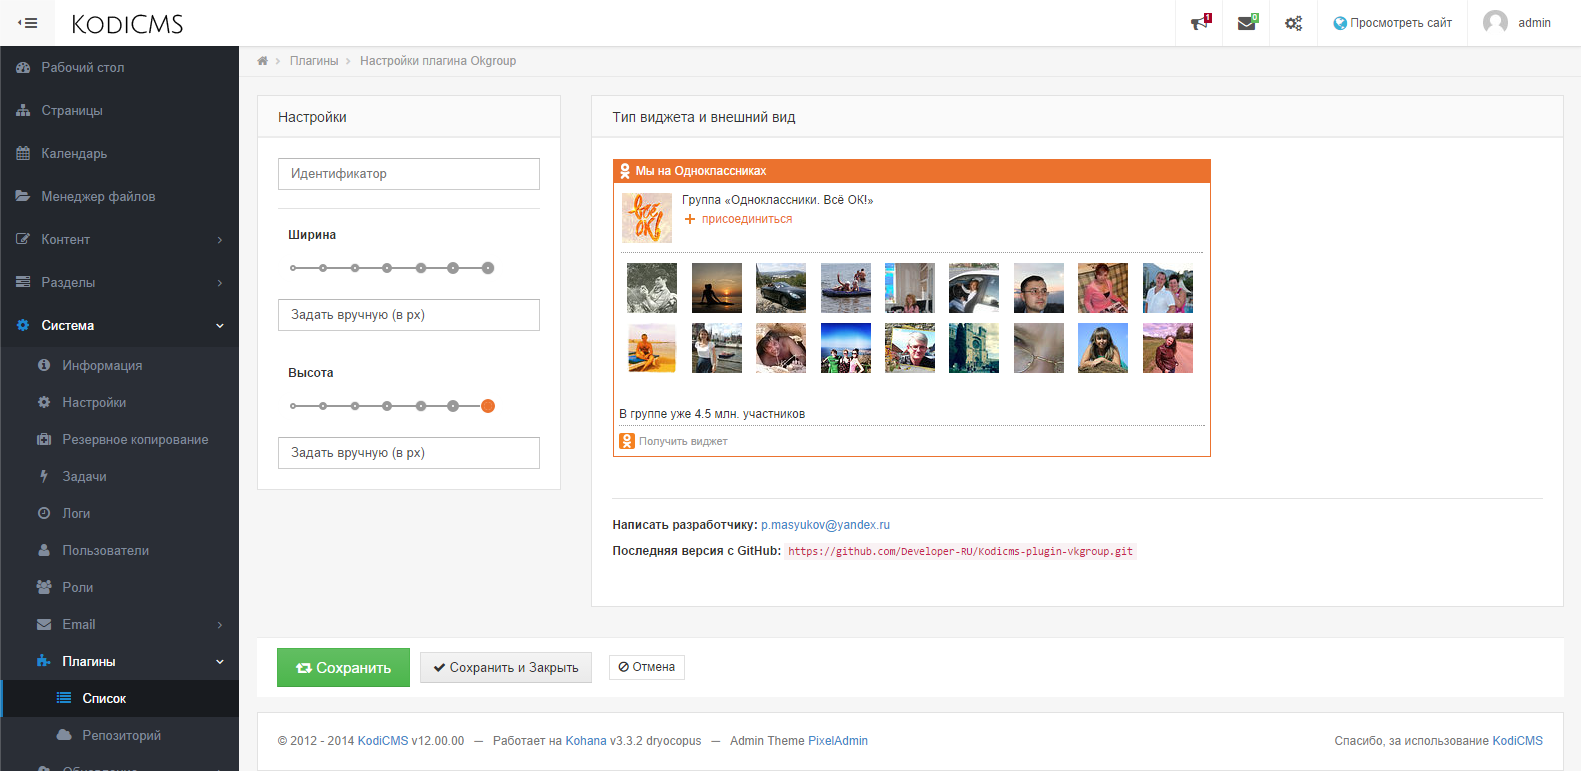
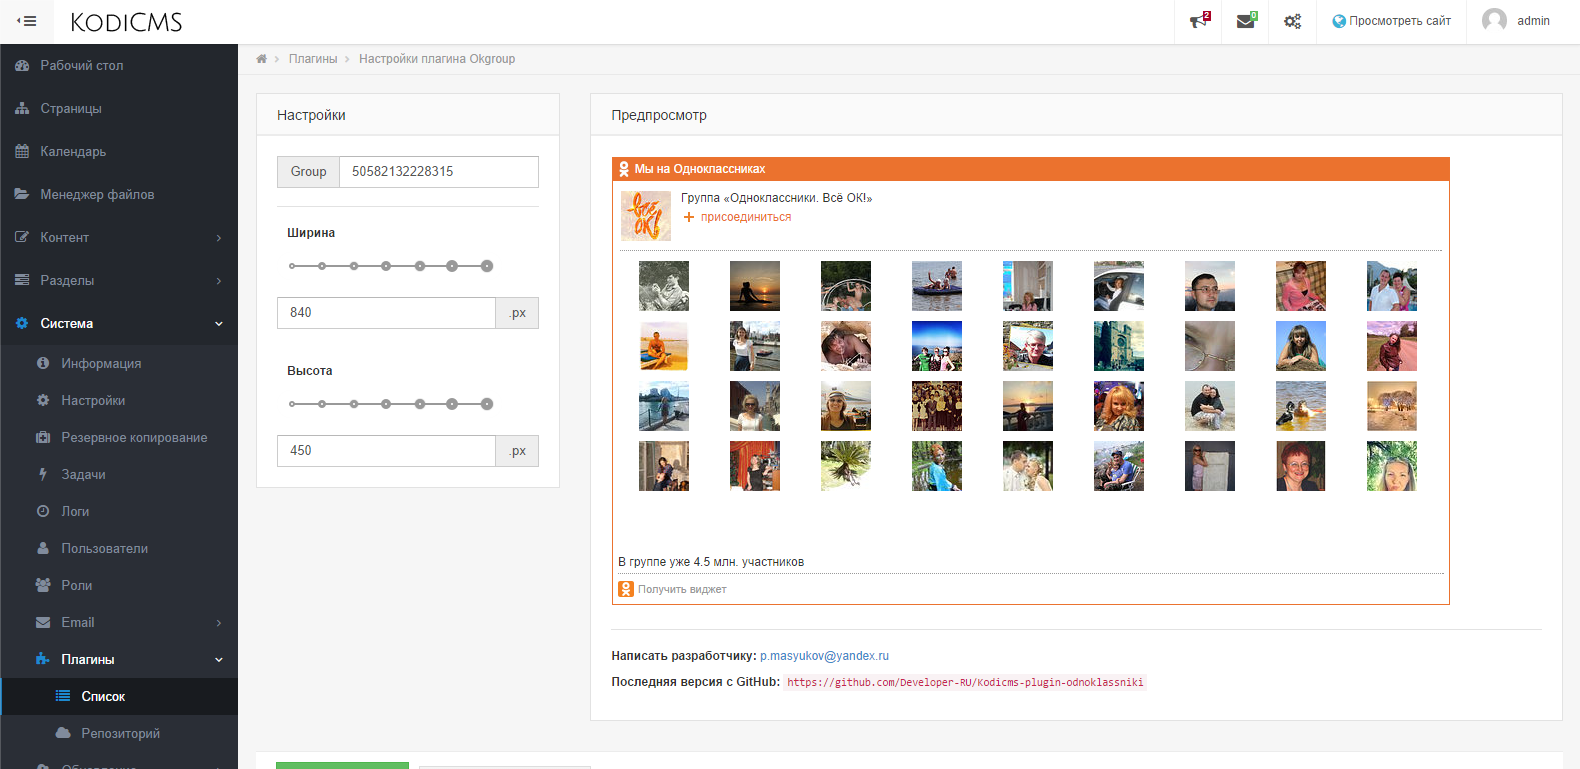
Update 31.08.2014

diff --git a/views/okgroup/settings.php b/views/okgroup/settings.php
@@ -1,6 +1,7 @@
 <?php
+
 /**
- * @Описание файла: "okgroup"
+ * @Описание файла: "okgroup 2.0"
  * 
  * -------
  * 
@@ -13,6 +14,7 @@
  * @URL https://github.com/Developer-RU
  * 
  */
+
 ?>
 <div class="row">
     <div class="col-sm-3">
@@ -24,10 +26,10 @@
                 <?php echo $form; ?>
                 <div class="control-group">
 
-                    <div class="controls">
-                        <input class = 'form-control' id="setting_group" type="text" size="14" placeholder="Идентификатор">
+                    <div class="input-group">
+                        <div class="input-group-addon">Group</div>
+                        <?php echo Form::input('setting[group]', $plugin->get('group'), array('id' => 'setting_group', 'class' => 'form-control', 'placeholder' => Arr::get($plugin->labels(), 'group'))); ?>
                     </div>
-
 
                     <hr class="divider">
 
@@ -63,9 +65,10 @@
                     </div>
 
                     <br><br>
-                    
-                    <div class="controls">
-                        <input class = 'form-control' id="width-num" type="text" size="11" value="Задать вручную (в px)">
+
+                    <div class="input-group">
+                        <?php echo Form::input('setting[width]', $plugin->get('width'), array('id' => 'setting_width', 'class' => 'form-control', 'placeholder' => Arr::get($plugin->labels(), 'manual'))); ?>
+                        <div class="input-group-addon">.px</div>
                     </div>
 
                     <br><br>
@@ -102,11 +105,12 @@
                     </div>
 
                     <br><br>
-                    
-                    <div class="controls">
-                        <input class = 'form-control' id="height-num" type="text" size="11" value="Задать вручную (в px)">
-                    </div>
 
+                    <div class="input-group">
+                        <?php echo Form::input('setting[height]', $plugin->get('height'), array('id' => 'setting_height', 'class' => 'form-control', 'placeholder' => Arr::get($plugin->labels(), 'manual'))); ?>
+                        <div class="input-group-addon">.px</div>
+                    </div>
+                    
                 </div>
                 <?php echo Form::close(); ?>
             </div>
@@ -116,7 +120,7 @@
     <div class="col-sm-9">	
         <div class="panel">
             <div class="panel-heading">
-                <span class="panel-title"><?php echo __('Тип виджета и внешний вид'); ?></span>
+                <span class="panel-title"><?php echo __('Preview'); ?></span>
             </div> 
             <div class="panel-body">
 
@@ -136,31 +140,17 @@
                             }
                         }
                         d.documentElement.appendChild(js);
-                    }(document, "ok_group_widget", "50582132228315", "{width:600,height:300}");
+                    }(document, "ok_group_widget", "<?php echo $plugin->get('group'); ?>", "{width:<?php echo $plugin->get('width'); ?>,height:<?php echo $plugin->get('height'); ?>}");
                 </script>
+                <noscript>Please enable JavaScript to view the widget Okgroup.</a></noscript>
 
-
-
-                <noscript>Please enable JavaScript to view the widget Okgroup.</a></noscript><br>
                 <hr class="divider">
                 <p><b>Написать разработчику:  </b>   <a href="mailto:p.masyukov@yandex.ru" class="dsq-brlink">p.masyukov@yandex.ru</a></p>
-                <p><b>Последняя версия с GitHub: </b>   <code>https://github.com/Developer-RU/Kodicms-plugin-vkgroup.git</code></p><br>
+                <p><b>Последняя версия с GitHub: </b>   <code>https://github.com/Developer-RU/Kodicms-plugin-odnoklassniki</code></p>
             </div>
         </div>
     </div>
 
 </div>
 
-<link href="/cms/plugins/okgroup/vendor/colorpicker/css/bootstrap-colorpicker.min.css" rel="stylesheet">
 <link href="/cms/plugins/okgroup/vendor/okgroup.css" rel="stylesheet">
-
-<script>
-    $(function() {
-        // $('#setting_bgcolor').colorpicker();
-    });
-</script>
-<!-- Le HTML5 shim, for IE6-8 support of HTML elements -->
-<!--[if lt IE 9]>
-    <script src="http://html5shim.googlecode.com/svn/trunk/html5.js"></script>
-<![endif]-->
-<script src="/cms/plugins/okgroup/vendor/colorpicker/js/bootstrap-colorpicker.js"></script>

diff --git a/classes/plugin/okgroup.php b/classes/plugin/okgroup.php
@@ -3,7 +3,7 @@
 defined('SYSPATH') or die('No direct access allowed.');
 
 /**
- * @Описание файла: "okgroup"
+ * @Описание файла: "okgroup 2.0"
  * 
  * -------
  * 
@@ -20,5 +20,61 @@ defined('SYSPATH') or die('No direct access allowed.');
 class Plugin_Okgroup extends Plugin_Decorator {
 
 
+    public function rules() {
+        return array(
+            'group' => array(
+                array('not_empty'),
+                array('min_length', array(':value', 1)),
+                array('max_length', array(':value', 50)),
+                array('alpha_dash'),
+            ),
+            'width' => array(
+                array('not_empty'),
+                array('numeric'),
+            ),
+            'height' => array(
+                array('not_empty'),
+                array('numeric'),
+            ),
+            'btncolor' => array(
+                array('color'),
+            )
+        );
+    }
 
+    public function default_settings() {
+        return array(
+        'width' => 220,
+        'height' => 400,
+        );
+    }
+
+    public function filters() {
+        return array(
+            'group' => array(
+                array('trim')
+            ),
+            'width' => array(
+                array('intval')
+            ),
+            'height' => array(
+                array('intval')
+            ),
+            'btncolor' => array(
+                array('trim')
+            )
+        );
+    }
+
+    public function labels() {
+        return array(
+            'group' => __('Group'),
+            'users' => __('Users'),
+            'news' => __('News'),
+            'width' => __('Width'),
+            'height' => __('Height'),            
+            'manual' => __('Manual'),
+            'btncolor' => __('Buttons'),
+        );
+    }
 }

diff --git a/views/widgets/frontend/okgroup.php b/views/widgets/frontend/okgroup.php
@@ -1,0 +1,19 @@
+                <div id="ok_group_widget"></div>
+                <script>
+                    !function(d, id, did, st) {
+                        var js = d.createElement("script");
+                        js.src = "http://connect.ok.ru/connect.js";
+                        js.onload = js.onreadystatechange = function() {
+                            if (!this.readyState || this.readyState == "loaded" || this.readyState == "complete") {
+                                if (!this.executed) {
+                                    this.executed = true;
+                                    setTimeout(function() {
+                                        OK.CONNECT.insertGroupWidget(id, did, st);
+                                    }, 0);
+                                }
+                            }
+                        }
+                        d.documentElement.appendChild(js);
+                    }(document, "ok_group_widget", "<?php echo $plugin->get('group'); ?>", "{width:<?php echo $plugin->get('width'); ?>,height:<?php echo $plugin->get('height'); ?>}");
+                </script>
+                <noscript>Please enable JavaScript to view the widget Okgroup.</a></noscript>

diff --git a/i18n/ru.php b/i18n/ru.php
@@ -3,7 +3,7 @@
 defined('SYSPATH') or die('No direct access allowed.');
 
 /**
- * @Описание файла: "okgroup"
+ * @Описание файла: "okgroup 2.0"
  * 
  * -------
  * 
@@ -18,13 +18,13 @@ defined('SYSPATH') or die('No direct access allowed.');
  */
 
 return array(
-    'Vkgroup'=>'Виджет Вконтакте',
+    'Okgroup'=>'Виджет Вконтакте',
     'Group' => 'Идентификатор',
     'Widget' => 'Виджет группы Вконтакте',
+    'Preview' => 'Предпросмотр',
     'Settings' => 'Настройки',
     'Width' => 'Ширина',
     'Height' => 'Высота',
-    'Background' => 'Цвет фона',
-    'Color' => 'Цвет текста',
-    'Buttons' => 'Цвет кнопок',
+    'Manual' => 'Задать вручную',
+    'Buttons' => 'Цвет кнопок'
 );

diff --git a/init.php b/init.php
@@ -3,7 +3,7 @@
 defined('SYSPATH') or die('No direct script access.');
 
 /**
- * @Описание файла: "okgroup"
+ * @Описание файла: "okgroup 2.0"
  * 
  * -------
  * 
@@ -16,8 +16,9 @@ defined('SYSPATH') or die('No direct script access.');
  * @URL https://github.com/Developer-RU
  * 
  */
+
 Plugin::factory('okgroup', array(
     'title' => 'Okgroup',
     'description' => 'Виджет группы Одноклассники',
-    'version' => '1.0.0',
+    'version' => '2.0.0',
 ))->register();

diff --git a/views/widgets/backend/okgroup.php b/views/widgets/backend/okgroup.php
@@ -1,7 +1,7 @@
 <?php
 
 /**
- * @Описание файла: "okgroup"
+ * @Описание файла: "okgroup 2.0"
  * 
  * -------
  * 
@@ -18,7 +18,7 @@
 ?>
 
 <div class="widget-content">
-	<?php echo HTML::anchor('http://apiok.ru/wiki/pages/viewpage.action?pageId=42476655', 'Okgroup FAQ', array(
+	<?php echo HTML::anchor('http://apiok.ru/wiki/pages/viewpage.action?pageId=42476655', 'Odnoklassniki FAQ', array(
 		'class' => 'popup fancybox.iframe btn btn-info'
 	)); ?>
 </div>

diff --git a/plugins/settings.php b/plugins/settings.php
@@ -1,0 +1,9 @@
+<?php echo Form::open(NULL, array('class' => Bootstrap_Form::HORIZONTAL)); ?>
+	<?php echo Form::hidden('token', Security::token()); ?>
+	<div class="">
+		<?php echo $content; ?>
+		<div class="form-actions panel-footer">
+			<?php echo UI::actions('plugins'); ?>
+		</div>
+	</div>
+<?php echo Form::close(); ?>

diff --git a/classes/model/widget/okgroup.php b/classes/model/widget/okgroup.php
@@ -3,7 +3,7 @@
 defined('SYSPATH') or die('No direct access allowed.');
 
 /**
- * @Описание файла: "okgroup"
+ * @Описание файла: "okgroup 2.0"
  * 
  * -------
  * 

diff --git a/config/widgets.php b/config/widgets.php
@@ -3,7 +3,7 @@
 defined('SYSPATH') or die('No direct access allowed.');
 
 /**
- * @Описание файла: "okgroup"
+ * @Описание файла: "okgroup 2.0"
  * 
  * -------
  * 

diff --git a/README.md b/README.md
@@ -1,7 +1,10 @@
-Kodicms-plugin-okgroup
+Kodicms-plugin-vkgroup
 ======================
 
-Плагин виджета Одноклассники
+Плагин виджета Одноклассники 2.0. 
+
 Для настройки - "настройки/плагины/список плагинов/okgroup-настройки".
 
 Установка - создать виджет, создать снипет, скопировать код с шаблона по умолчанию.
+
+Заменить файл шаблона настройки - из папки плагин скопировать файл settings в папку модуля cms/plugins/views/plugin/
